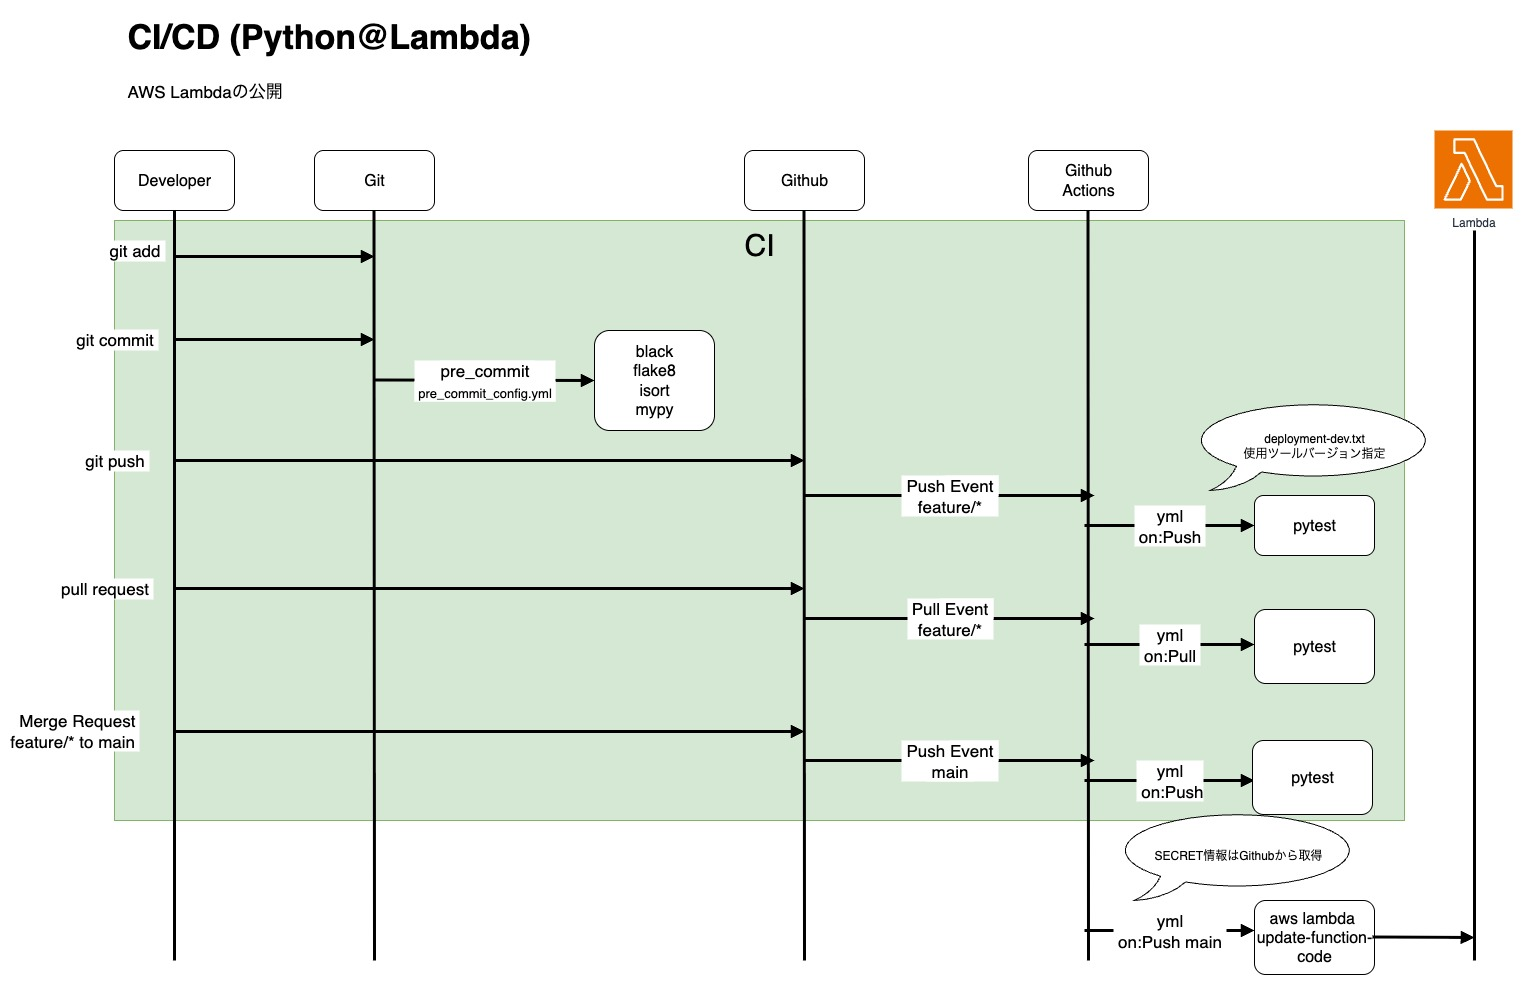
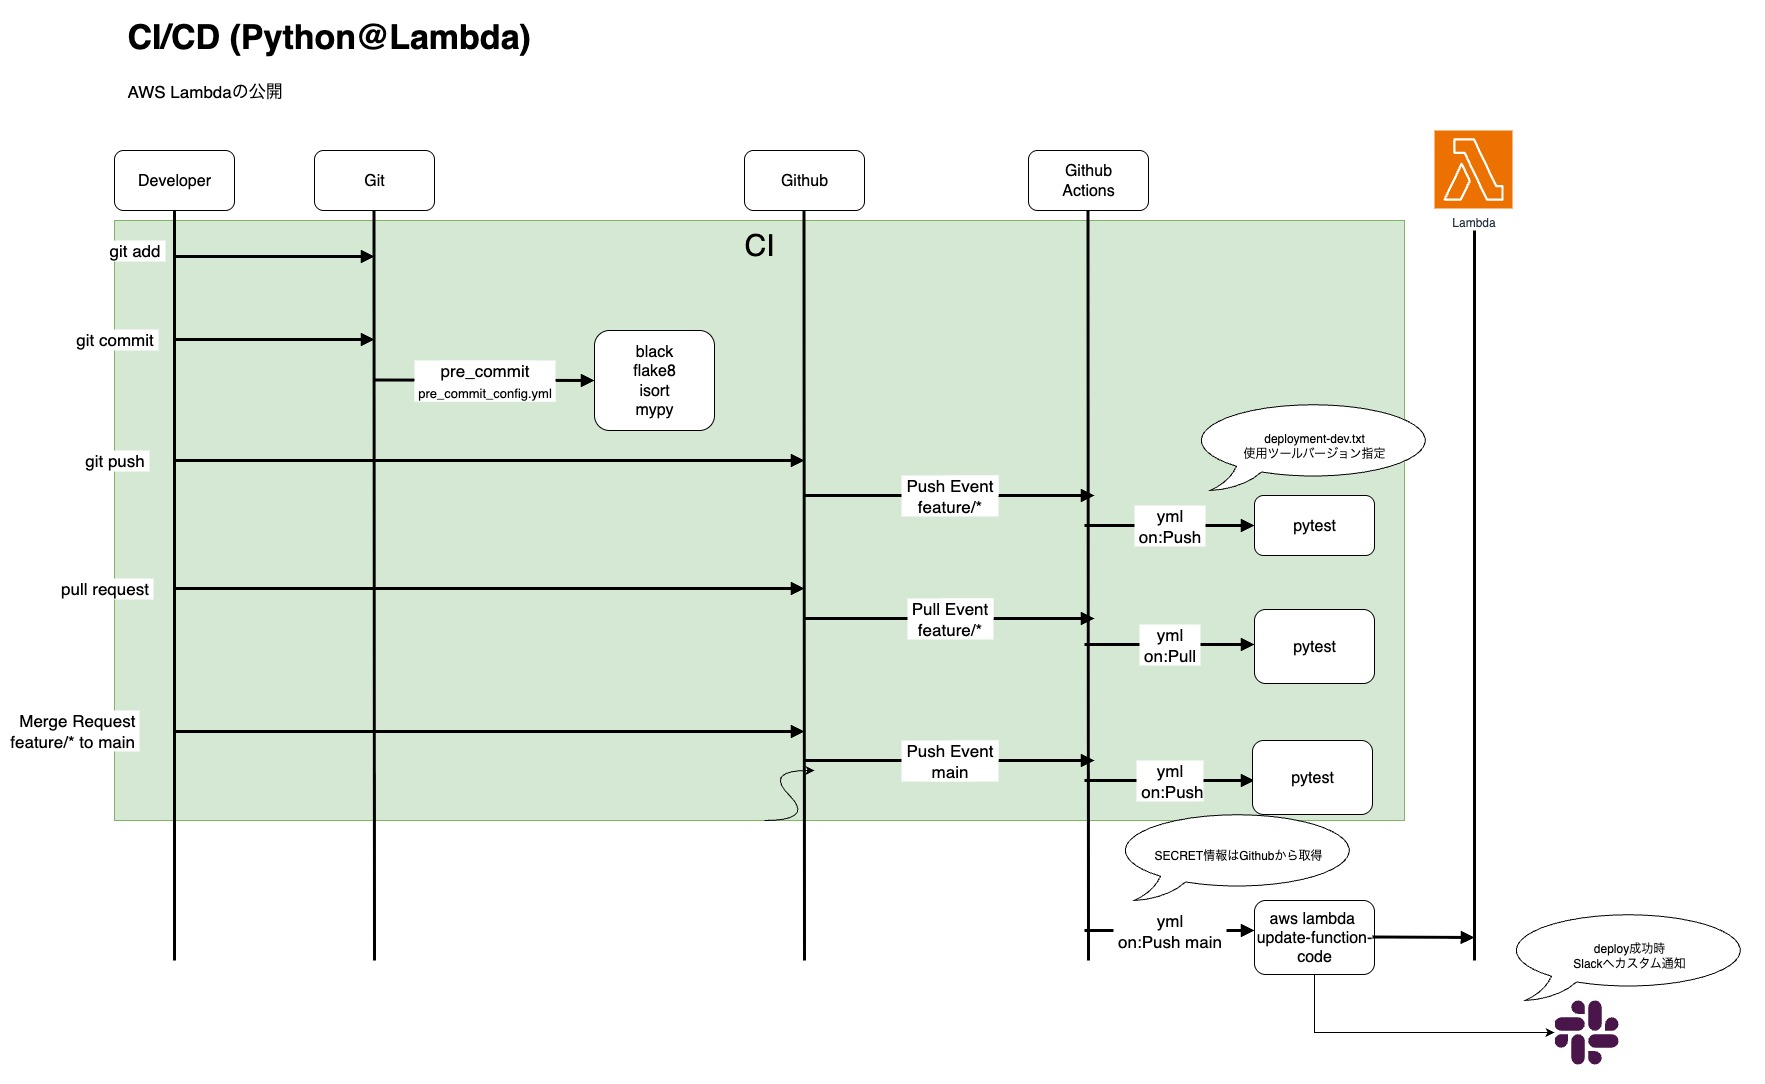
update lambda slack notification

diff --git a/docs/projects/lambda-ci-cd.md b/docs/projects/lambda-ci-cd.md
@@ -40,6 +40,14 @@ layout: default
 - 将来的なチーム開発を想定し、レビュー者・責任者の役割も図に反映予定
 - Secrets管理には GitHub の `Actions secrets` を使用し、AWSアクセスキー等の機密情報を安全に保持
 
+### Slack通知による運用補助（カスタム通知）
+
+GitHub Actionsのワークフロー内にSlack通知ステップを組み込み、CI/CDの実行結果をリアルタイムで受け取れるように設計しています。  
+SlackのIncoming Webhookを利用し、GitHub SecretsにWebhook URLを安全に登録。デプロイ成功時やCI失敗時など、任意のタイミングで通知を送信可能です。
+
+Slack通知は、開発者がGitHub上のアクション結果を即座に把握できるようにすることで、フィードバックループの高速化と運用効率の向上を実現しています。  
+将来的には、通知チャンネルの分離や、Slack Botによる承認フロー連携なども視野に入れています。
+
 ---
 
 > GitHub Actionsを活用したCI/CDの設計から、AWS Lambdaへの自動デプロイまでを一貫して構築。  

diff --git a/docs/projects/github-pages-ci.md b/docs/projects/github-pages-ci.md
@@ -41,7 +41,7 @@ layout: default
 - 将来的なチーム開発も視野に入れ、レビューや責任分担を想定した設計を意識
 - GitHub AppによるSlack通知を活用し、Issue・Pull Request・Releaseなどのイベントを即時共有できる構成とした
 - CI/CDの進行状況や成果物の公開をリアルタイムで把握できるようにすることで、開発の透明性と反応速度を高める設計
-- GitHub Actionsによるカスタム通知（例：CI失敗時のSlack通知）については、今後の拡張項目として検討中
+- GitHub Actionsによるカスタム通知（例：CI失敗時のSlack通知）については、他CI/CDで実施
 
 ---
 
